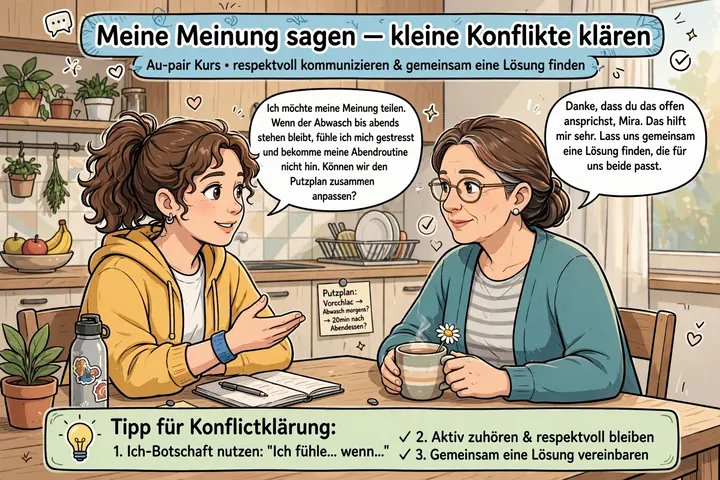
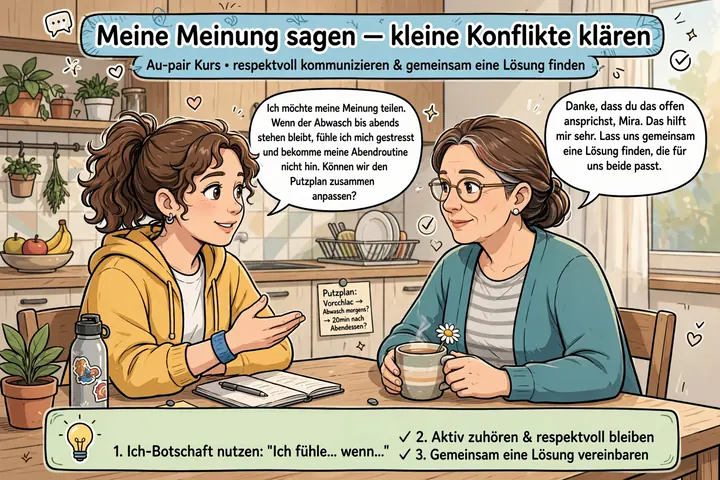
fix: Rechtschreibfehler aus dem Bild zu Lektion 14 entfernen
Der Tippkasten war mit "Tipp für Konflictklärung" überschrieben, mit c
statt k. Ein Rechtschreibfehler auf einer Seite, die Deutsch beibringt,
untergräbt genau das, was sie behauptet.

Die Überschrift ist entfernt, Glühbirne und die drei nummerierten Tipps
bleiben und stehen für sich. Wie bei Lektion 7 und 12 steht die Retusche
in der Bildpipeline, damit sie einen erneuten Lauf übersteht.

Changed region(s): [[0.1528, 0.8438, 0.4889, 0.9375]]

diff --git a/scripts/bilder-aufbereiten.js b/scripts/bilder-aufbereiten.js
@@ -84,6 +84,22 @@ const RETUSCHEN = {
       grund: 'Giftnotruf-Nummer einer anderen Region',
     },
   ],
+  // Die Überschrift des Tippkastens war falsch geschrieben
+  // ("Konflictklärung" statt "Konfliktklärung"). Ein Rechtschreibfehler auf
+  // einer Seite, die Deutsch beibringt, untergräbt genau das. Übrig bleiben
+  // die Glühbirne und die drei nummerierten Tipps, die für sich stehen.
+  14: [
+    {
+      links: 108,
+      rechts: 342,
+      obenLinks: 413,
+      obenRechts: 413,
+      untenLinks: 442,
+      untenRechts: 442,
+      farbe: '0xDAE6C4', // aus dem Tippkasten ausgelesen
+      grund: 'Rechtschreibfehler in der Bildunterschrift',
+    },
+  ],
 };
 
 const RETUSCHE_STREIFEN = 15; // schmaler heißt weniger Treppe an den Kanten
